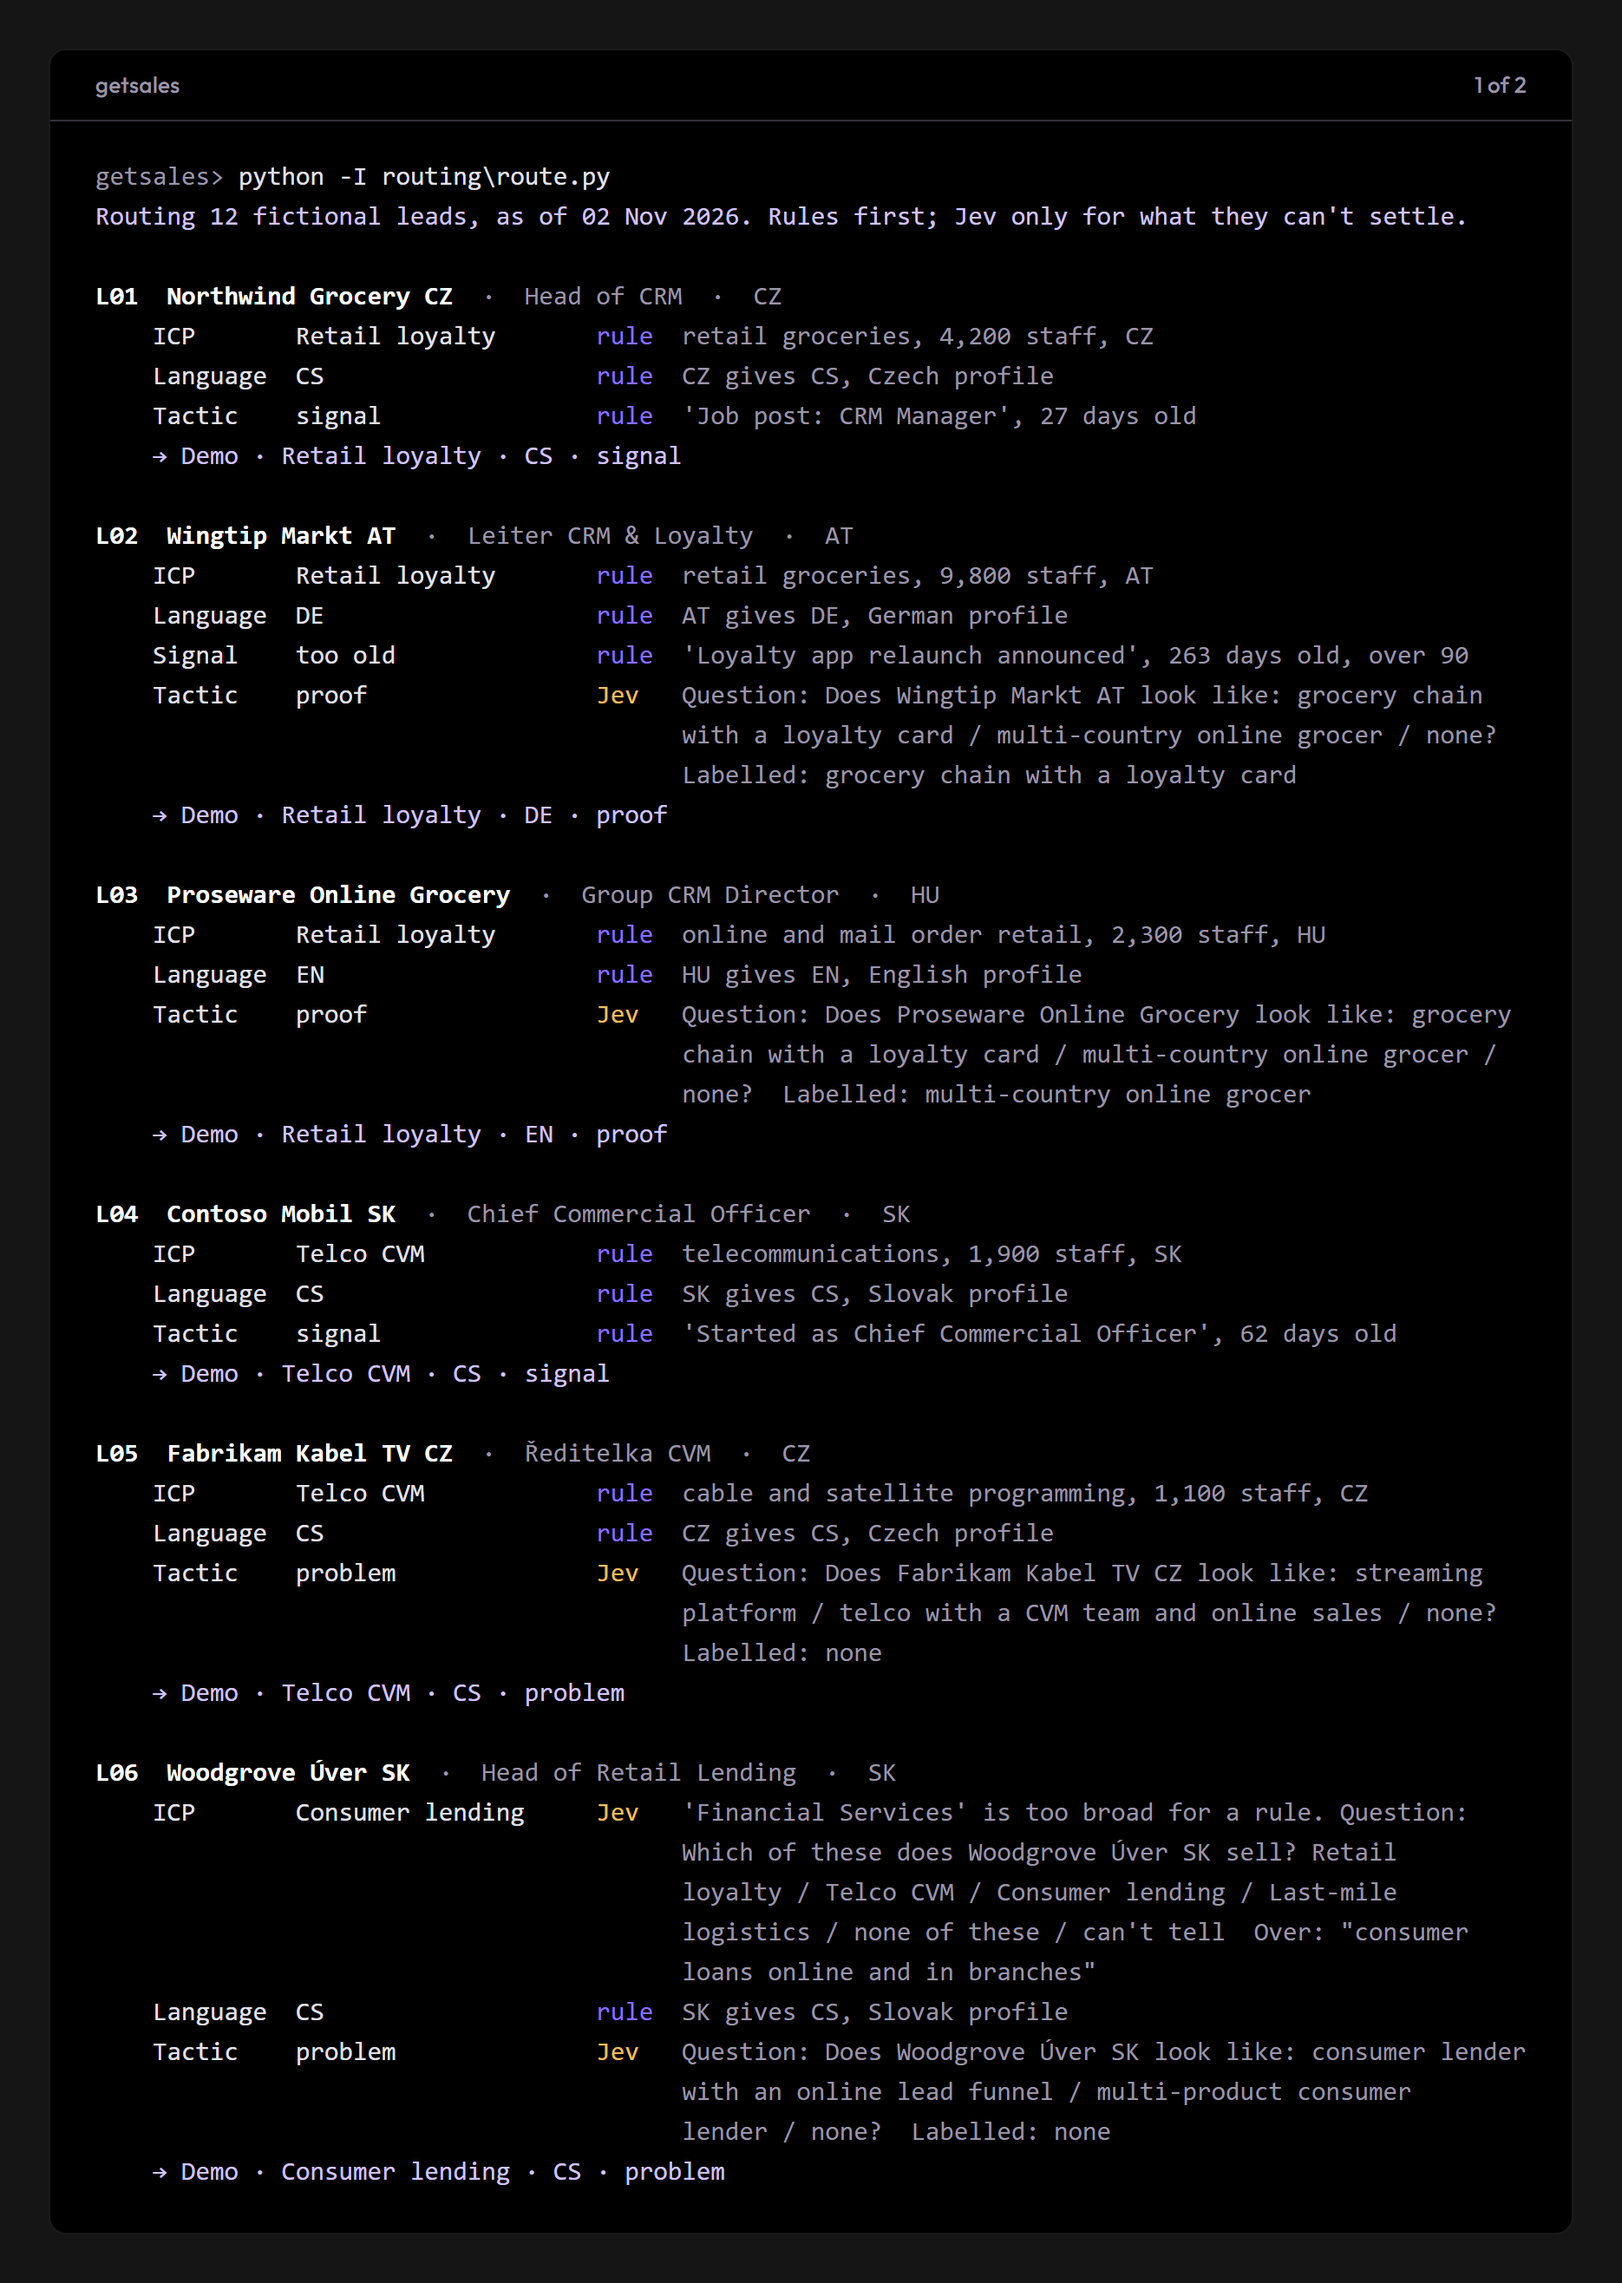
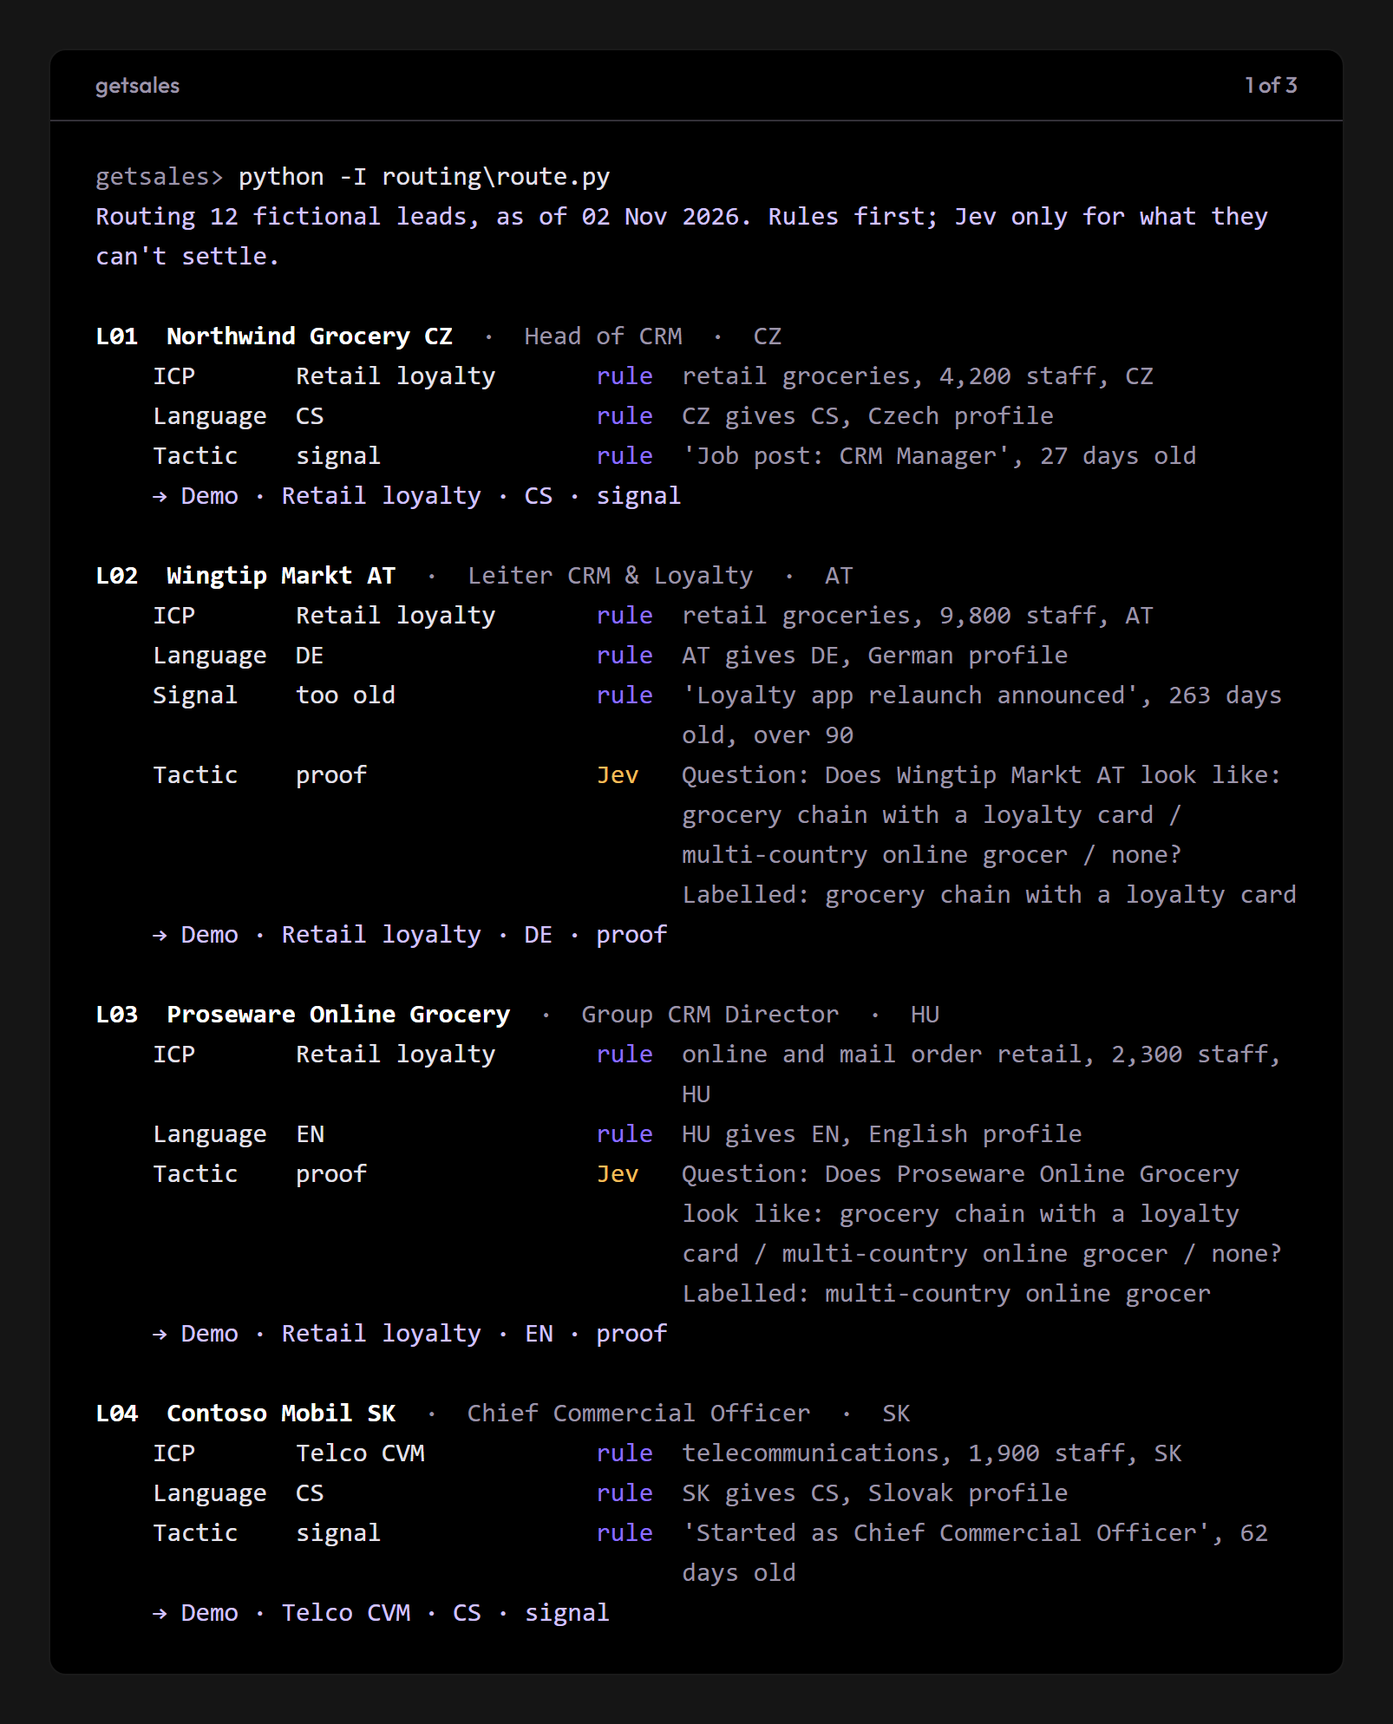
[getsales] Demo 2 figures re-rendered at 84 columns (about 14 px in the column), full run in three parts
Claude-Session: https://claude.ai/code/session_01UyYB1sUAYcfd4gxsJAphTS

diff --git a/getsales/site/demo-2.md b/getsales/site/demo-2.md
@@ -39,12 +39,16 @@ Three rules do most of the work, in this order:
 - A signal under 90 days old makes the lead signal-led. A job post 27 days old counts; an app relaunch 263 days old doesn't.
 
 > [!figure] /demos-assets/sorting-twelve-leads-into-36-workflows-rules-first-then-jev/router-run-1.png
-> Terminal run, part 1: fictional leads L01 to L06, each decision tagged rule or Jev, ending on its workflow
-> The full run, part 1: violet marks a rule, amber marks a question for Jev
+> Terminal run, part 1: fictional leads L01 to L04, each decision tagged rule or Jev, ending on its workflow
+> The full run, part 1 of 3: violet marks a rule, amber marks a question for Jev
 
 > [!figure] /demos-assets/sorting-twelve-leads-into-36-workflows-rules-first-then-jev/router-run-2.png
-> Terminal run, part 2: leads L07 to L12, then the summary line: 4 by rules alone, 7 needed Jev, 1 no fit, 12 of 12 match the sample
-> L12 fits no ICP and is logged with its reason; nothing is imported or sent
+> Terminal run, part 2: fictional leads L05 to L08, each decision tagged rule or Jev, ending on its workflow
+> Part 2 of 3: L06 is one of the two hard cases, shown again below
+
+> [!figure] /demos-assets/sorting-twelve-leads-into-36-workflows-rules-first-then-jev/router-run-3.png
+> Terminal run, part 3: fictional leads L09 to L12, each decision tagged rule or Jev, ending on its workflow, then the summary
+> Part 3 of 3: L12 fits no ICP and is logged with its reason; nothing is imported or sent
 
 Rules are free, exact, and anyone can read why a lead went where it did.
 
